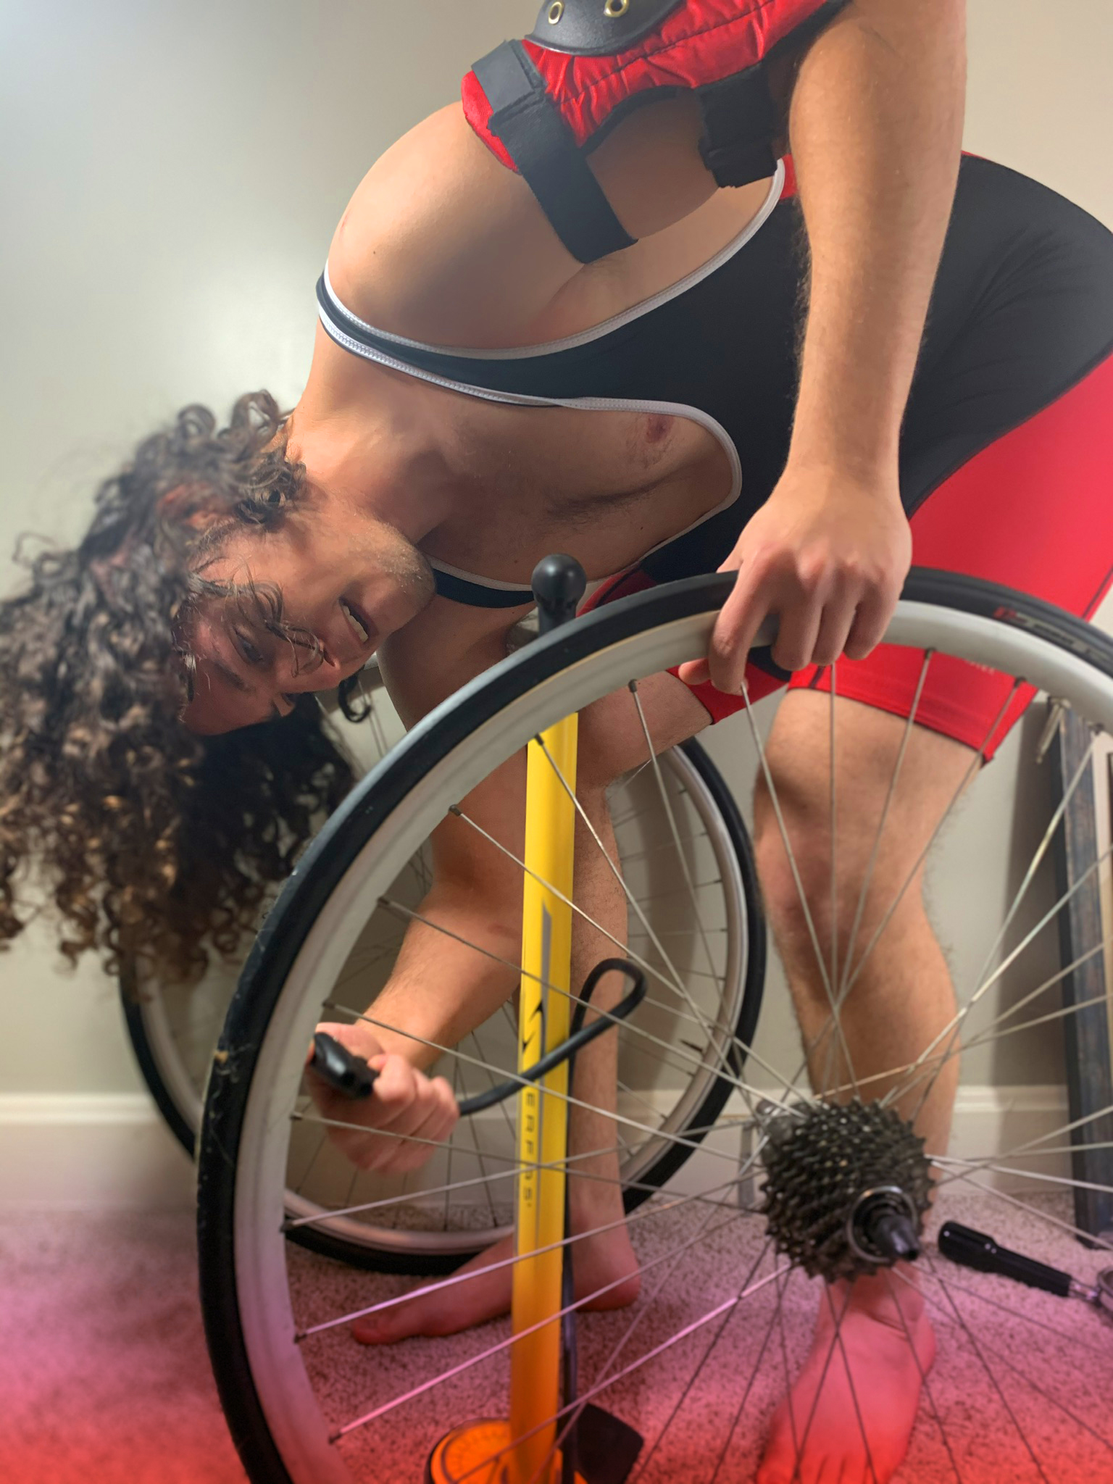
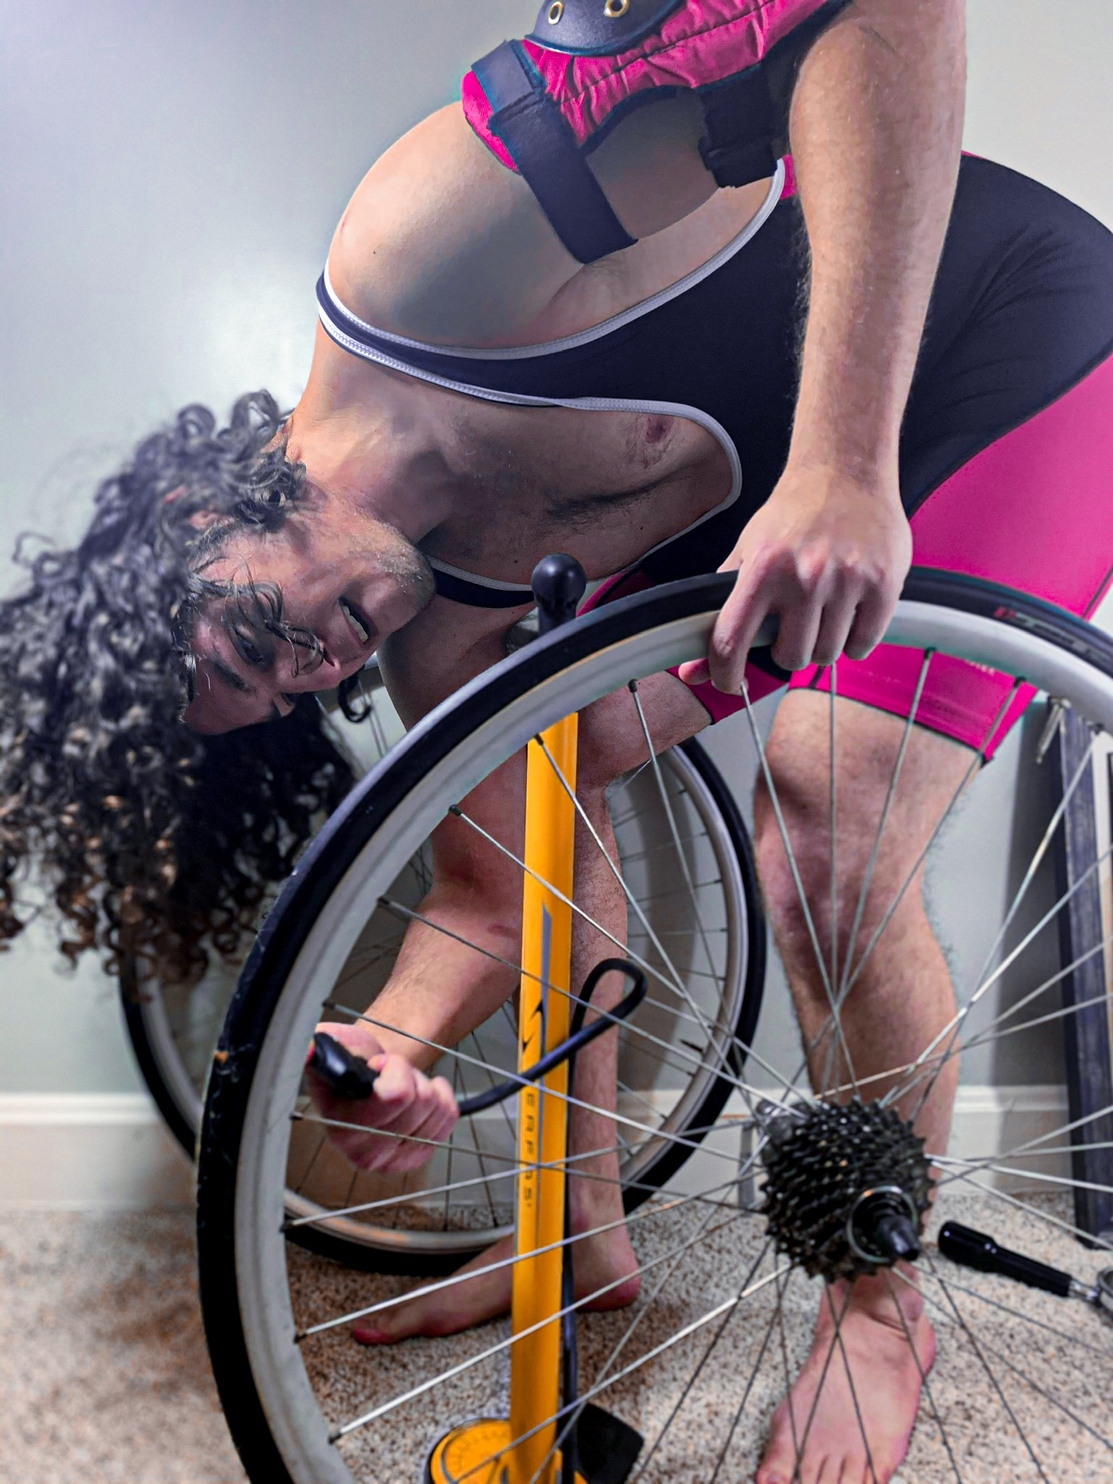
Re-edited images, added dynamically updating quotes, cleaned up functions

diff --git a/scripts.js b/scripts.js
@@ -1,6 +1,6 @@
 window.addEventListener("load", function(){
     
-    console.log('Window loaded and ready to handle events.')
+    console.log('Window loaded and ready to handle events.');
    
     //declare elements
     let leftButton = document.getElementById("left-button");
@@ -8,7 +8,6 @@ window.addEventListener("load", function(){
     let rightButton = document.getElementById("right-button");
     let contentParagraph = document.getElementById("content-paragraph");
     let contentHeading = document.getElementsByTagName("h2")[0];
-    let content = document.getElementById("content");
     let contentImage = document.getElementById("content-image");;
     let liveButton = document.getElementById("live-button");
     let workButton = document.getElementById("work-button");
@@ -20,18 +19,28 @@ window.addEventListener("load", function(){
             this.author = "&mdash;"+author;
             this.quote = quote;
         }        
-    }
+    };
     let mayaQuote = new Quote('Maya Angelou',`"If you don&#8217;t like something, change it.<br>
     &nbsp;&nbsp;If you can&#8217;t change it, change your attitude."`);
+    let sheddQuote = new Quote('John A. Shedd', `"A ship in harbor is safe, but that is not what<br>&nbsp;&nbsp;ships are built for."`);
+    let frostQuote = new Quote('Robert Frost',`"In three words I can sum up everything I've<br>&nbsp;&nbsp;learned about life: it goes on."`)
+    let emersonQuote = new Quote('Ralph Waldo Emerson', `"Don&#8217;t go where the path may lead, go instead<br>&nbsp;&nbsp;where there is no path and leave a trail."`)
+    let virgilQuote = new Quote('Virgil Abloh', `"My style is to never say no."<br>`)
     
-    let quoteArray = [mayaQuote];
+    let quoteArray = [mayaQuote,sheddQuote,frostQuote,emersonQuote,virgilQuote];
+
+    function randomSelection(arr){
+        let index = Math.floor(Math.random()*arr.length);
+        return arr[index];
+     };
 
     function setQuote(quoteArr){
         let quoteTextElem = document.getElementById("quote-text");
         let quoteAuthorElem = document.getElementById("quote-author");
-        quoteTextElem.innerHTML = quoteArr[0].quote
-        quoteAuthorElem.innerHTML = quoteArr[0].author
-    }
+        let selectedQuote = randomSelection(quoteArr);
+        quoteTextElem.innerHTML = selectedQuote.quote
+        quoteAuthorElem.innerHTML = selectedQuote.author
+    };
 
     //declare Content class and setContent() function
     class Content {
@@ -40,42 +49,157 @@ window.addEventListener("load", function(){
             this.paragraph = paragraph;
             this.image = image;
         }
-    }
+    };
 
     function setContent(contentObject){
             contentHeading.innerHTML = contentObject.heading;
             contentParagraph.innerHTML = contentObject.paragraph;
+            contentImage.style = "initial"
             contentImage.src = contentObject.image;
-    }
-    //live content
-    let engagementContent = new Content(heading = "THE ENGAGEMENT",paragraph = "Several years ago, I met the most amazing woman that I know. Seriously people, she&#8217;s awesome: a professional bad-ass, tasteful designer, and an unforgiving critic on anything I don&#8217;t do well. We were made for each other. <br><br>In 2018, we travelled across the Carribean Sea and landed in Aruba. Some sun-burned faces and sandy socks later, we were engaged. This is one of the few moments in my life that were planned appropriately. Thanks to that intuition, I have a short film documenting the occasion. <a href='https://www.youtube.com/watch?v=kLQjj4FRUwg'>Check it out here.</a>", image = "./engagement.jpg"); 
-    let sleepContent = new Content(heading = "SLEEP", paragraph = "Other than work, sleep is the only single task that has decided to take up a third of my day. Not only that, but it even takes time straddling my thoughts throughout! I cannot get a break with this concept! Regardless, it&#8217;s probably one of the most valuable aspects of my life, and it&#8217;s been with me from the start. <br><br>We&#8217;ve had some rocky roads on the journey, and it&#8217;s even plagued me with a few nightmares. There&#8217;s one nightmare where I try and escape The Blackbird, the X-Men&#8217;s iconic space shuttle, with the help of a few of my super-friends, but we&#8217;ve never succeeded. <br><br>  Just think, tonight I&#8217;ll be enjoying some sleep. Guaranteed.", image = "./sleep.jpg");
-    let homeImprovementContent = new Content(heading = "HOME IMPROVEMENT",paragraph ="In the Fall of 2019, my fianc&eacute; and I bought a house! After looking at all of our options, we decided on a house built in 1927!<br><br> Just for reference, in 1927:<ul><li>construction of Mt. Rushmore began</li><li>silent film &#8217;Metropolis&#8217; was released</li><li>color television was invented</li><li>our house was built!</li></ul><br>When I&#8217;m not coding or working, you can typically find me trying to make improvements to our house. As it turns out, century-old houses require some upkeep.", image = "./home_improvement.jpg");
-    let sleepButton = "REST"
-    let engagementButton = "LOVE"
-    let homeImprovementButton = "HOME"
-    // let liveButtons = [sleepButton,engagementButton,homeImprovementButton]
-    //play content 
-    let bikingContent = new Content(heading = "THE RIDE",paragraph = "I&#8217;ll admit, I can be a lazy exerciser. I discovered biking to be the happy medium between decent exercise and a sense of adventure.<br><br>Several summers ago, I decided to take my biking to the next level and commit to a 2-day venture bound by bike. I spent day after day training to ensure my body would be ready to sit in a saddle for an extended period of time.<br><br>I began the trek in Lafayette, Indiana and rode off set for Chicago, Illinois.<br><br>After fourteen hours on the saddle, I landed in my destination and reaped my reward: a genuine Chicago slice of deep-dish pizza.", image = "./biking.jpg");
-    let recordsContent = new Content(heading = "THE TUNES",paragraph = "I spend the majority of my day with headphones on or records spinning. My father was a DJ, and I&#8217;ve taken inherited his love affair with music. Here are a few of my favorite slabs of wax that I&#8217;ve collected:<ul style='margin-left:-10px;'><li>Tame Impala&mdash;Currents</li><li>Johnny Guitar Watson&mdash;Ain&#8217;t That a Bitch</li><li>Fugees&mdash;The Score</li><li>Prince&mdash;Purple Rain</li><li>Dizzy Gillespie&mdash;Night in Tunisia</li><li>Count Basie&mdash;Evergreens</li><li>Madvillain&mdash;Madvillainy</li><li>Funkadelic&mdash;Maggot Brain</li><li>Erykah Badu&mdash;World Wide Underground</li></ul>", image = "./records.jpg");
-    let coffeeContent = new Content(heading = "COFFEE",paragraph = "Coffee is a link between cultures and a nostalgic aspect to many as its intrinsic feature is a chemical that wakes up most of America.<br><br>From single origins to experimental blends, I wake up every morning to a creative endeavor in brewing an adventurous cup of coffee, seeking a delicious symphony of flavors rather than a cacophony of them.<br><br>My at-home menu consists of pour-overs designed to discover the inherent flavors of an origin, or lattes whipped together through my Italian-made espresso machine designed to explore the harsh nature of a proper espresso.<br><br>I have yet to find the &#8217;perfect cup&#8217;, but maybe one day I&#8217;ll come close.", image = "./coffee.jpg");
-    let bikingButton = "RIDE"
-    let recordsButton = "LISTEN"
-    let coffeeButton = "DRINK"
-    // let playButtons = [bikingButton, recordsButton, coffeeButton]
-    //work content
-    let manosContent = new Content(heading = "BOTTLE ARTIST",paragraph = "In 2015, I was working for a small, specialty production shop called Mano&#8217;s Wine and Gifts. I crafted wine bottles that featured neat, custom designs. The &#8217;crafting&#8217; consisted of: <ul><li>application of specialty film</li><li>hand-etching the designs directly onto the bottle&#8217;s face</li><li>hand-painting the bottles with bright, attractive palettes</li><li>the gruesome process of cleaning each bottle</li></ul>We ended up with some rather cool results at the end of the day, and I got to keep one of the bottles!", image = "./manos.jpg");
-    let artAndFrameContent = new Content(heading = "PICTURE FRAMING",paragraph = "In 2016, I decided to stay creative, but move toward directly serving folks by elevating their prized-possessions. I spent a year as a picture framer at Art and Frame Warehouse. It was a pleasure to handle client&#8217;s priceless works and transform them into something conventionally presentable.<br><br>We worked on a range of items, from rare, one-of-a-kind band posters, to 18th-century firearms.<br><br>My time here taught valuable, introductory lessons toward effective communication, handling client needs, and how to do the job right the first time.", image = "./art_n_frame.jpg");
-    let finiteContent = new Content(heading = "MECHANICAL DESIGN",paragraph = "In 2017, I jumped career paths to something more intellectually-stimulating: mechanical drafting and design.<br><br>I&#8217;ve discovered drafting to be that mediating process that allows an engineer or architect to communicate with the shop or developer. There&#8217;s an intimacy that develops through the investigation of the ideas of the engineer and the translation of those ideas to model and drawing with CAD.<br><br>During my time here, I&#8217;ve gained a deeper connection and passion for things that I don&#8217;t have much relation to: industrial logging machines, food processing equipment, steel structures, and hydraulic booms and their platforms.", image = "./finite.jpg");
-    let manosButton = "2015"
-    let artAndFrameButton = "2016"
-    let finiteButton = "2017"
-    // let workButtons = [manosButton,artAndFrameButton,finiteButton];
+    };
 
+    //live content
+    let engagementContent = new Content(
+        heading = "THE LOVER",
+        paragraph = `Several years ago, I met the most amazing woman that I know. Seriously people, she&#8217;s awesome: a professional bad-ass, tasteful designer, and an unforgiving critic on anything I don&#8217;t do well. We were made for each other.<br><br>
+            In 2018, we travelled across the Carribean Sea and landed in Aruba. Some sun-burned faces and sandy socks later, we were engaged. This is one of the few moments in my life that were planned appropriately. Thanks to that intuition, I have a short film documenting the occasion.<br><br>
+            <a href='https://www.youtube.com/watch?v=kLQjj4FRUwg' target='_blank'>Check it out here.</a>`,
+        image = "./engagement.jpg"
+        ); 
+    let sleepContent = new Content(
+        heading = "THE SLEEPER",
+        paragraph = `Other than work, sleep is the only single task that has decided to take up a third of my day. Not only that, but it even takes time straddling my thoughts throughout the rest of it. I cannot get a break with this concept! Regardless, it&#8217;s probably one of the most valuable aspects of my life, and it&#8217;s been with me from the start.<br><br>
+            We&#8217;ve had some rocky roads on the journey, and it&#8217;s even plagued me with a few nightmares. There&#8217;s one nightmare where I try and escape the X-Men&#8217;s space shuttle with the help of a few of my super-friends, but we&#8217;ve never succeeded.<br><br>
+            Just think, tonight I&#8217;ll be enjoying some sleep. Guaranteed.`,
+        image = "./sleep.jpg"
+        );
+    let homeImprovementContent = new Content(
+        heading = "THE HOME IMPROVER",
+        paragraph =`In the Fall of 2019, my fianc&eacute; and I bought a house! After looking at all of our options, we decided on a house built in 1927!<br><br>
+            Just for reference, in 1927:
+            <ul>
+                <li>construction of Mt. Rushmore began</li>
+                <li>silent film &#8217;Metropolis&#8217; was released</li>
+                <li>color television was invented</li>
+                <li>our house was built!</li>
+            </ul><br>
+            When I&#8217;m not coding or working, you can typically find me trying to make improvements to our house. As it turns out, century-old houses require some upkeep.`,
+        image = "./home_improvement.jpg"
+        );
+    let sleepButton = "REST";
+    let engagementButton = "LOVE";
+    let homeImprovementButton = "HOME";
+    let liveButtons = [sleepButton,engagementButton,homeImprovementButton];
+    let liveContent = [sleepContent, engagementContent, homeImprovementContent];
+
+    //play content 
+    let bikingContent = new Content(
+        heading = "THE RIDER",
+        paragraph = `I&#8217;ll admit, I can be a lazy exerciser. I discovered biking to be the happy medium between decent exercise and a sense of adventure.<br><br>
+            Several summers ago, I decided to take my biking to the next level and commit to a 2-day venture bound by bike. I spent day after day training to ensure my body would be ready to sit in a saddle for an extended period of time.<br><br>
+            I began the trek in Lafayette, Indiana and set sail for Chicago, Illinois.<br><br>
+            After fourteen hours on the saddle, I landed in my destination and reaped my reward: a genuine Chicago slice of deep-dish pizza.`,
+        image = "./biking.jpg"
+    );
+    let recordsContent = new Content(
+        heading = "THE TUNES JAMMER",
+        paragraph = `I spend the majority of my day with headphones on or records spinning. My father was a DJ, and I&#8217;ve taken inherited his love affair with music. Here are a few of my favorite slabs of wax that I&#8217;ve collected:
+            <ul style='margin-left:-10px;'>
+                <li>Tame Impala&mdash;<span class="album">Currents</span></li>
+                <li>Johnny Guitar Watson&mdash;<span class="album">Ain&#8217;t That a Bitch</span></li>
+                <li>Fugees&mdash;<span class="album">The Score</span></li>
+                <li>Prince&mdash;<span class="album">Purple Rain</span></li>
+                <li>Dizzy Gillespie&mdash;<span class="album">Night in Tunisia</span></li>
+                <li>Count Basie&mdash;<span class="album">Evergreens</span></li>
+                <li>Madvillain&mdash;<span class="album">Madvillainy</span></li>
+                <li>Funkadelic&mdash;<span class="album">Maggot Brain</span></li>
+                <li>Erykah Badu&mdash;<span class="album">World Wide Underground</span></li>
+            </ul>`,
+        image = "./records.jpg");
+    let coffeeContent = new Content(
+        heading = "THE COFFEE CONSUMER",
+        paragraph = `Coffee is a link between cultures and a nostalgic aspect to many as its intrinsic feature is a chemical that wakes up most of America.<br><br>
+            From single origins to experimental blends, I wake up every morning to a creative endeavor in brewing an adventurous cup of coffee, seeking a delicious symphony of flavors rather than a cacophony of them.<br><br>
+            My at-home menu consists of pour-overs designed to discover the inherent flavors of an origin, or lattes whipped together through the espresso machine designed to explore the harsh nature of a proper espresso.<br><br>
+            I have yet to find the &#8217;perfect cup&#8217;, but maybe one day I&#8217;ll come close.`,
+            image = "./coffee.jpg");
+    let bikingButton = "RIDE";
+    let recordsButton = "LISTEN";
+    let coffeeButton = "DRINK";
+    let playButtons = [bikingButton, recordsButton, coffeeButton];
+    let playContent = [bikingContent, recordsContent, coffeeContent];
+
+    //work content
+    let manosContent = new Content(
+        heading = "THE BOTTLE ARTIST",
+        paragraph = `In 2015, I was working for a small, specialty production shop called Mano&#8217;s Wine and Gifts. I crafted wine bottles that featured neat, custom designs. The &#8217;crafting&#8217; consisted of:
+            <ul>
+                <li>application of specialty film</li>
+                <li>hand-etching the designs directly onto the bottle&#8217;s face</li>
+                <li>hand-painting the bottles with bright, attractive palettes</li>
+                <li>the gruesome process of cleaning each bottle</li>
+            </ul>
+            We ended up with some rather cool results at the end of the day, and I got to keep one of the bottles!`,
+        image = "./manos.jpg"
+    );
+    let artAndFrameContent = new Content(
+        heading = "THE PICTURE FRAMER",
+        paragraph = `In 2016, I decided to stay creative, but move toward directly serving folks by elevating their prized-possessions. I spent a year as a picture framer at Art and Frame Warehouse. It was a pleasure to handle client&#8217;s priceless works and transform them into something conventionally presentable.<br><br>
+            We worked on a range of items, from rare, one-of-a-kind band posters, to 18th-century firearms.<br><br>
+            My time here taught valuable, introductory lessons toward effective communication, handling client needs, and how to do the job right the first time.`, 
+        image = "./art_n_frame.jpg"
+    );
+    let finiteContent = new Content(
+        heading = "THE DESIGNER",
+        paragraph = `In 2017, I jumped career paths to something more intellectually-stimulating: mechanical drafting and design.<br><br>
+            I&#8217;ve discovered drafting to be that mediating process that allows an engineer or architect to communicate with the shop or developer. There&#8217;s an intimacy that develops through the investigation of the ideas of the engineer and the translation of those ideas to model and drawing with CAD.<br><br>
+            During my time here, I&#8217;ve gained a deeper connection and passion for things that I don&#8217;t have much relation to: industrial logging machines, food processing equipment, steel structures, and many more.`,
+        image = "./finite.jpg"
+    );
+    let manosButton = "2015";
+    let artAndFrameButton = "2016";
+    let finiteButton = "2017";
+    let workButtons = [manosButton,artAndFrameButton,finiteButton];
+    let workContent = [manosContent,artAndFrameContent,finiteContent];
+
+    //navlink functions
+    function setNav(buttonArr){
+        leftButton.innerHTML = buttonArr[0];
+        middleButton.innerHTML = buttonArr[1];
+        rightButton.innerHTML = buttonArr[2];
+    }
+
+    //executeTimeLineButton() function
+    function executeTimeLineButton(button, index){
+        if (button.innerHTML === liveButtons[index]){
+            setContent(liveContent[index]);
+        } else if (button.innerHTML === workButtons[index]){
+            setContent(workContent[index]);
+        } else if (button.innerHTML === playButtons[index]){
+            setContent(playContent[index]);
+        } 
+    };
+
+    //set button bold functions
+    function setLeftButtonBold(){
+        leftButton.style.fontWeight = "bold";
+        middleButton.style.fontWeight = "normal";
+        rightButton.style.fontWeight = "normal";
+    };
+    function setMiddleButtonBold(){
+        leftButton.style.fontWeight = "normal";
+        middleButton.style.fontWeight = "bold";
+        rightButton.style.fontWeight = "normal";
+    };
+    function setRightButtonBold(){
+        leftButton.style.fontWeight = "normal";
+        middleButton.style.fontWeight = "normal";
+        rightButton.style.fontWeight = "bold";
+    };
     //begin html modifying code
 
     //set initial content
-    setNavToLive();
+    setNav(liveButtons);
     contentParagraph.innerHTML = (`
         <p id="quote">
             <span id="quote-text"></span><br>
@@ -83,87 +207,43 @@ window.addEventListener("load", function(){
         </p>
     `); 
     contentImage.src = "./quote_image.png";
+    contentImage.style = "height:64px; margin-top:20px"
     setQuote(quoteArray);
-
-    //navlink functions
-    function setNavToLive(){
-        leftButton.innerHTML = sleepButton;
-        middleButton.innerHTML = engagementButton;
-        rightButton.innerHTML = homeImprovementButton;
-    }
-    function setNavToWork(){
-        leftButton.innerHTML = manosButton;
-        middleButton.innerHTML = artAndFrameButton;
-        rightButton.innerHTML = finiteButton;
-    }
-    function setNavToPlay(){
-        leftButton.innerHTML = bikingButton;
-        middleButton.innerHTML = recordsButton;
-        rightButton.innerHTML = coffeeButton;
-    }
-
 
     //addtnl event handling
     //timeline links
+
     leftButton.addEventListener("click", function(){
-        leftButton.style.fontWeight = "bold";
-        middleButton.style.fontWeight = "normal";
-        rightButton.style.fontWeight = "normal";
-        if (leftButton.innerHTML === sleepButton){
-            setContent(sleepContent);
-        } else if (leftButton.innerHTML === bikingButton){
-            setContent(bikingContent);
-        } else if (leftButton.innerHTML === manosButton){
-            setContent(manosContent);
-        }
-        
-        
+        setLeftButtonBold();
+        executeTimeLineButton(leftButton,0);
     });
+
     middleButton.addEventListener("click", function(){
-        leftButton.style.fontWeight = "normal";
-        middleButton.style.fontWeight = "bold";
-        rightButton.style.fontWeight = "normal";
-        if (middleButton.innerHTML === engagementButton){
-            setContent(engagementContent);
-        } else if (middleButton.innerHTML === artAndFrameButton){
-            setContent(artAndFrameContent);
-        } else if (middleButton.innerHTML === recordsButton){
-            setContent(recordsContent);
-        }
+        setMiddleButtonBold();
+        executeTimeLineButton(middleButton,1);
     });
+
     rightButton.addEventListener("click", function(){
-        leftButton.style.fontWeight = "normal";
-        middleButton.style.fontWeight = "normal";
-        rightButton.style.fontWeight = "bold";
-        if (rightButton.innerHTML === homeImprovementButton){
-            setContent(homeImprovementContent);
-        } else if (rightButton.innerHTML === finiteButton){
-            setContent(finiteContent);
-        } else if (rightButton.innerHTML === coffeeButton){
-            setContent(coffeeContent);
-        }
+        setRightButtonBold();
+        executeTimeLineButton(rightButton,2);
     });
 
     //nav links
     liveButton.addEventListener("click", function(){
-        setNavToLive()
-        setContent(sleepContent);
-        leftButton.style.fontWeight = "bold";
-        middleButton.style.fontWeight = "normal";
-        rightButton.style.fontWeight = "normal";
+        setNav(liveButtons)
+        setContent(liveContent[0]);
+        setLeftButtonBold();
     });
+
     workButton.addEventListener("click", function(){
-        setNavToWork()
-        setContent(manosContent);
-        leftButton.style.fontWeight = "bold";
-        middleButton.style.fontWeight = "normal";
-        rightButton.style.fontWeight = "normal";
+        setNav(workButtons)
+        setContent(workContent[0]);
+        setLeftButtonBold();
     });
+
     playButton.addEventListener("click", function(){
-        setNavToPlay()
-        setContent(bikingContent);
-        leftButton.style.fontWeight = "bold";
-        middleButton.style.fontWeight = "normal";
-        rightButton.style.fontWeight = "normal";
+        setNav(playButtons)
+        setContent(playContent[0]);
+        setLeftButtonBold();
     });
 });

diff --git a/index.html b/index.html
@@ -5,7 +5,7 @@
         <title>a history:KALEB LUCAS</title>
         <link rel="stylesheet" type="text/css" href="styles.css">
         <script src = "scripts.js"></script>
-        <meta name="viewport" content="width=device-width, initial-scale=1">
+        <meta name="viewport" content="width=device-width, initial-scale=2">
     </head>
 
     <body>

diff --git a/styles.css b/styles.css
@@ -118,5 +118,8 @@ h2 {
 
 }
 
+.album {
+    font-style:oblique;
+}
 
 
